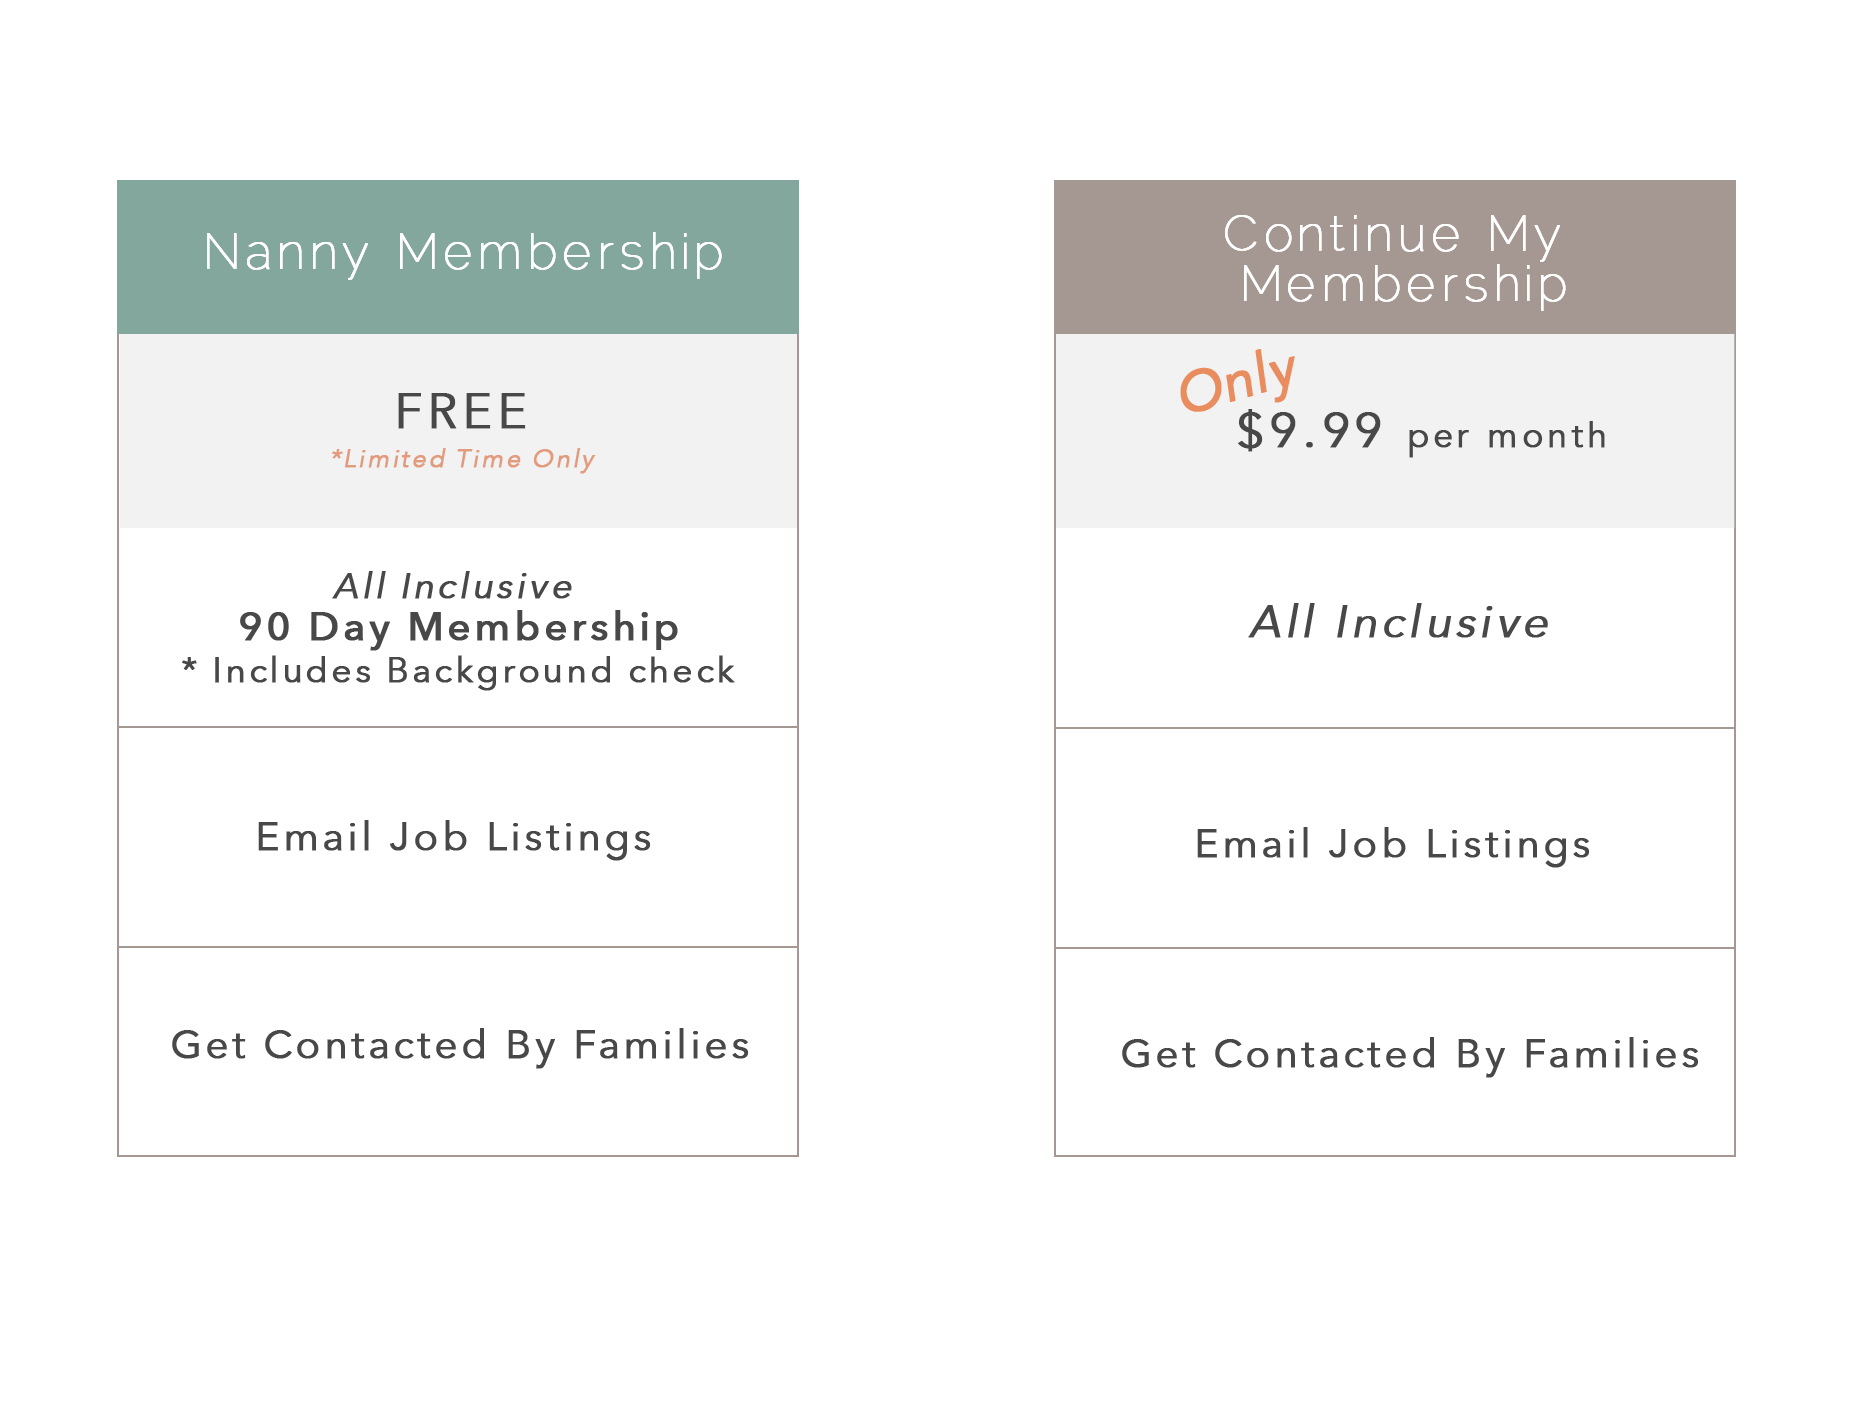
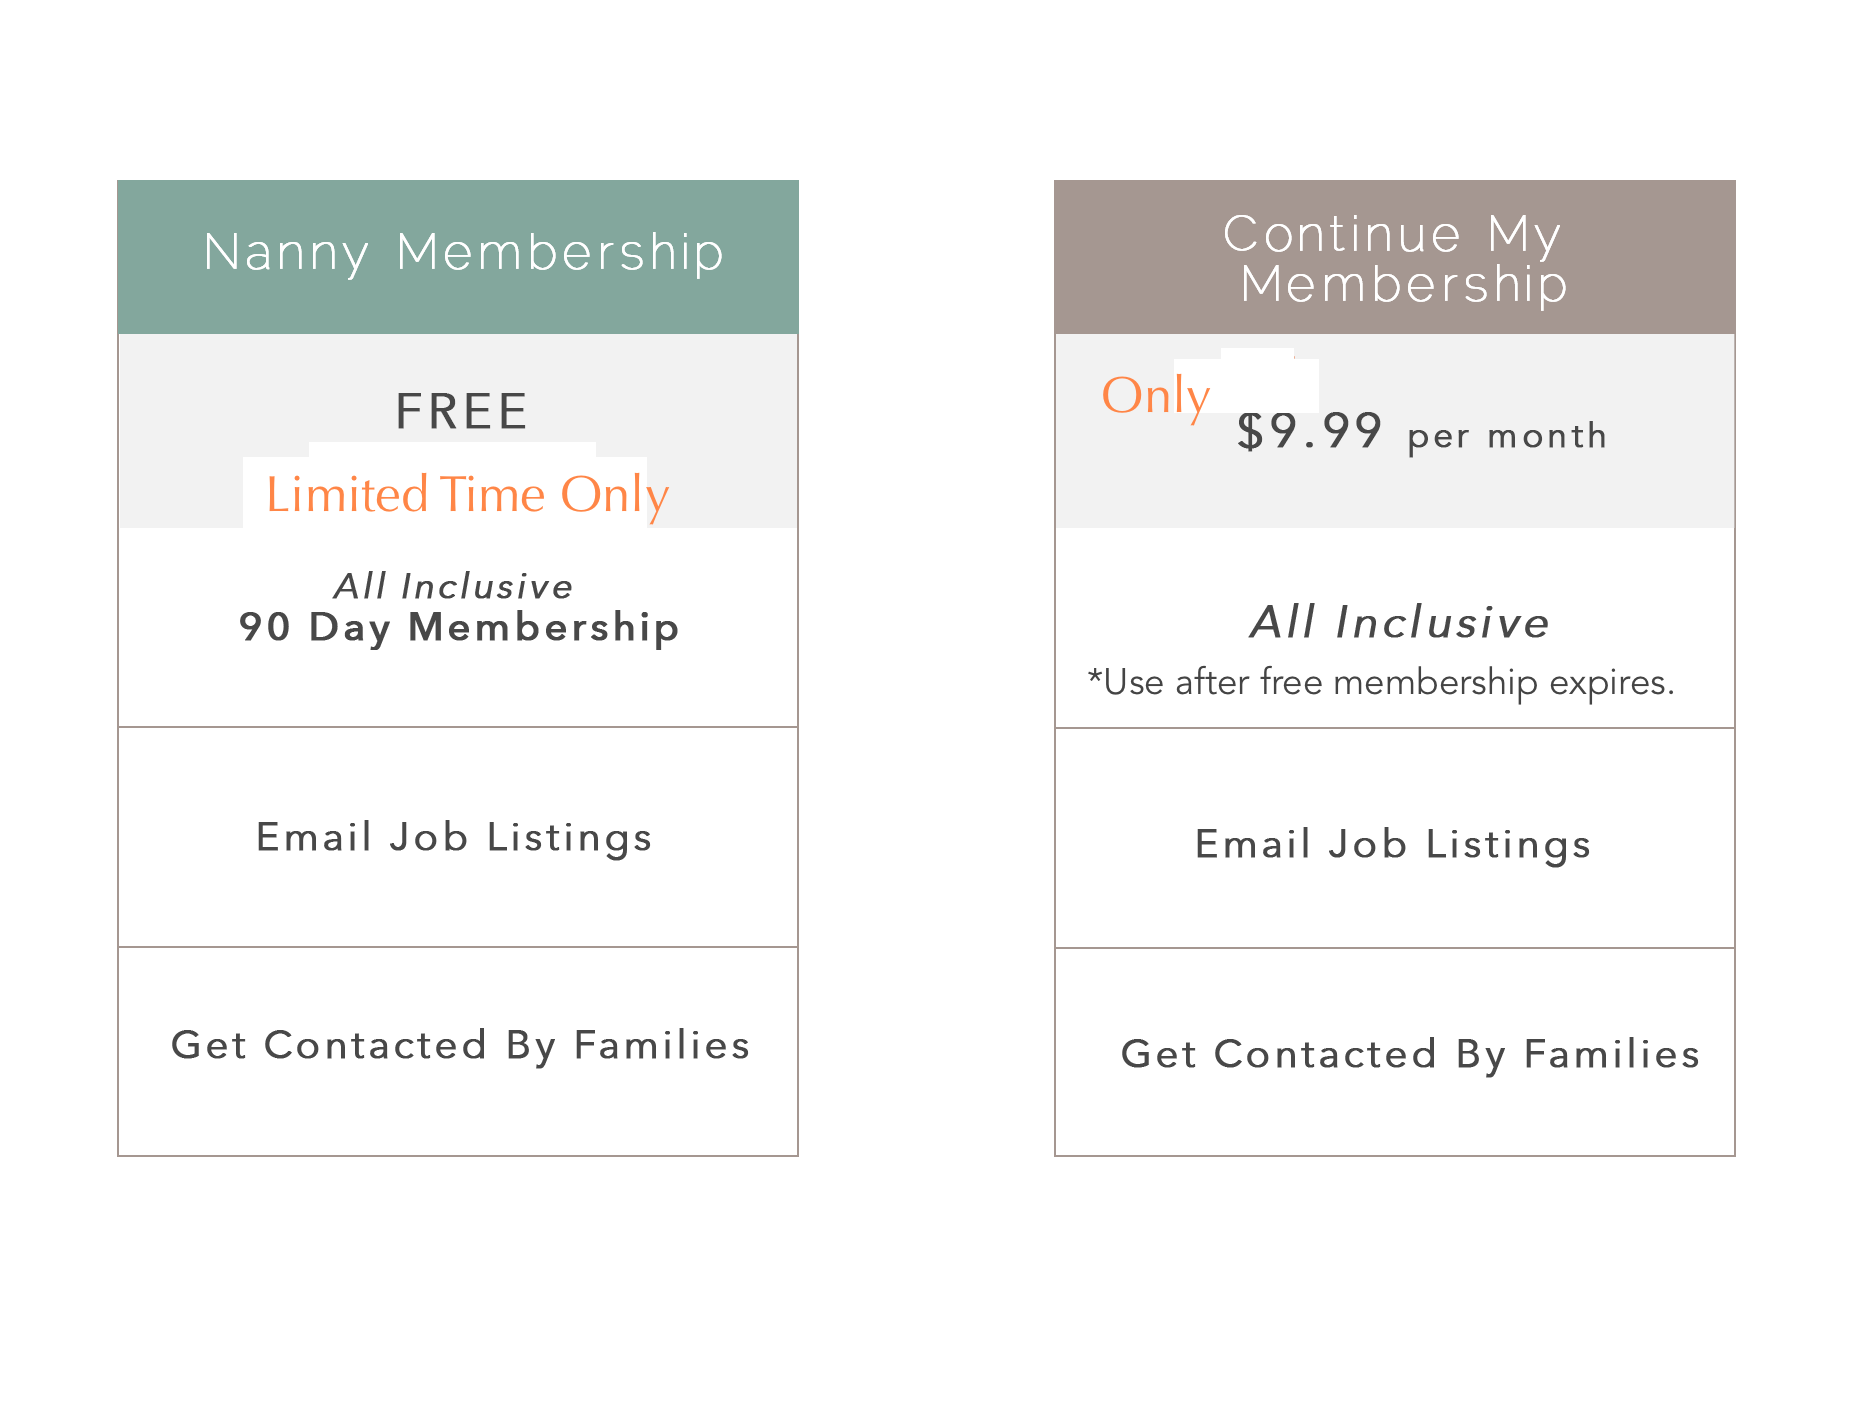
保姆：更换购买页面图片和主页文字

diff --git a/frontend/modules/user/controllers/DefaultController.php b/frontend/modules/user/controllers/DefaultController.php
@@ -117,7 +117,8 @@ class DefaultController extends Controller
             if(count($refs)<3){
                 Yii::$app->session->setFlash('alert', [
                     'options' => ['class'=>'alert-warning'],
-                    'body' => Yii::t('frontend', 'Thank you for registering wth NannyCare.com. Please follow the steps below to complete your profile. Nannies must complete the application, upload CPR/First Aid and fill out the background check form to be considered. You can also upload a resume and any references letters and/or certifications you have, since some families may ask us to verify your references (added service we offer families). We will contact you via email when your profile has been approved. As soon as you are approved, you\'re profile will be displayed on our site and you can start connecting with families.
+                    'body' => Yii::t('frontend', 'Thank you for registering wth NannyCare.com. Please create your profile below. Nannies must complete all sections to be approved. Families appreciate it when nannies take their time to answer all the questions sincerely and thoroughly. This can usually be done in 15 minutes. Also, don\'t forget to upload a picture. If you have CPR and First Aid please upload them below to get badges. You can also upload any reference letters, resumes, certifications and credentials that you have. Lastly, don\'t forget to click on \'Get Membership\' when you\'re done to get started with your FREE 3 month all inclusive nanny membership. We hope you find a great job(s) through our site. Please let us know if you need help with anything. 
+                    
                     Thanks!~Team NannyCare.com', [], Yii::$app->user->identity->userProfile->locale)
                 ]);
             }
